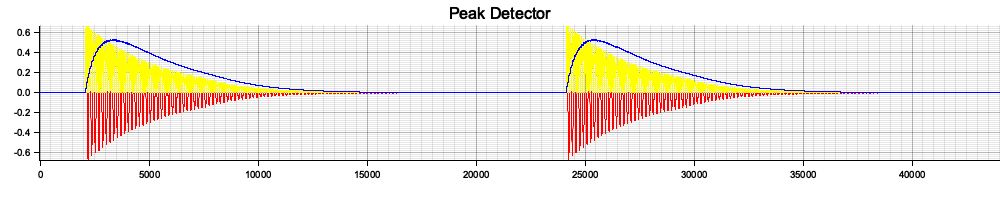
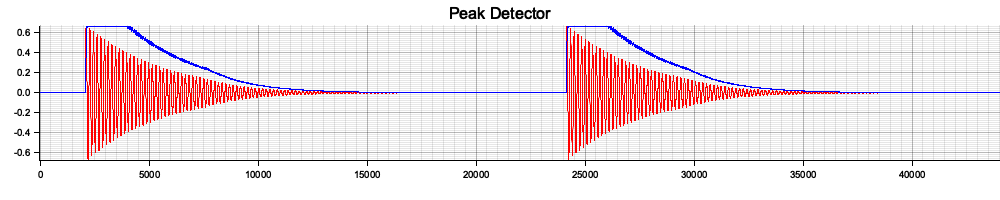
Fix and simplify compressor implementation

Changed region(s): [[0.062, 0.12, 0.372, 0.48], [0.558, 0.12, 0.837, 0.48]]

diff --git a/crates/augmented/audio/audio-processor-dynamics/src/lib.rs b/crates/augmented/audio/audio-processor-dynamics/src/lib.rs
@@ -1,75 +1,97 @@
 use audio_garbage_collector::{make_shared, Shared};
 use audio_processor_traits::{AudioBuffer, AudioProcessor, AudioProcessorSettings};
-use augmented_audio_volume::{Amplitude, Decibels};
+use augmented_audio_volume::{db_to_amplitude, Amplitude, Decibels};
 use handle::CompressorHandle;
+
+type FloatT = augmented_audio_volume::Float;
 
 mod handle {
     use audio_processor_traits::AtomicF32;
 
-    pub fn calculate_multiplier(sample_rate: f32, duration_ms: f32) -> f32 {
+    use super::FloatT;
+
+    type AtomicFloat = AtomicF32;
+
+    pub fn calculate_multiplier(sample_rate: FloatT, duration_ms: FloatT) -> FloatT {
         let attack_secs = duration_ms * 0.001;
         let attack_samples = sample_rate * attack_secs;
-        (-1.0 / attack_samples).exp2()
+        FloatT::exp2((-1.0 / attack_samples))
     }
 
     pub struct CompressorHandle {
-        make_up_gain_db: AtomicF32,
-        knee_width_db: AtomicF32,
-        threshold_db: AtomicF32,
-        ratio: AtomicF32,
-        attack_ms: AtomicF32,
-        release_ms: AtomicF32,
-        sample_rate: AtomicF32,
+        make_up_gain_db: AtomicFloat,
+        knee_width_db: AtomicFloat,
+        threshold_db: AtomicFloat,
+        ratio: AtomicFloat,
+        attack_ms: AtomicFloat,
+        release_ms: AtomicFloat,
+        sample_rate: AtomicFloat,
     }
 
     impl Default for CompressorHandle {
         fn default() -> Self {
             Self {
-                make_up_gain_db: AtomicF32::new(0.0),
-                knee_width_db: AtomicF32::new(1.0),
-                threshold_db: AtomicF32::new(-10.0),
-                ratio: AtomicF32::new(2.0),
-                attack_ms: AtomicF32::new(3.0),
-                release_ms: AtomicF32::new(10.0),
-                sample_rate: AtomicF32::new(44100.0),
+                make_up_gain_db: AtomicFloat::new(0.0),
+                knee_width_db: AtomicFloat::new(0.1),
+                threshold_db: AtomicFloat::new(-10.0),
+                ratio: AtomicFloat::new(2.0),
+                attack_ms: AtomicFloat::new(3.0),
+                release_ms: AtomicFloat::new(10.0),
+                sample_rate: AtomicFloat::new(44100.0),
             }
         }
     }
 
     impl CompressorHandle {
-        pub fn attack_mult(&self) -> f32 {
+        pub fn attack_mult(&self) -> FloatT {
             calculate_multiplier(self.sample_rate.get(), self.attack_ms.get())
         }
 
-        pub fn release_mult(&self) -> f32 {
+        pub fn release_mult(&self) -> FloatT {
             calculate_multiplier(self.sample_rate.get(), self.release_ms.get())
         }
 
-        pub fn set_attack_ms(&self, value: f32) {
+        pub fn set_attack_ms(&self, value: FloatT) {
             self.attack_ms.set(value);
         }
 
-        pub fn set_release_ms(&self, value: f32) {
+        pub fn set_make_up_gain(&self, value: FloatT) {
+            self.make_up_gain_db.set(value);
+        }
+
+        pub fn set_release_ms(&self, value: FloatT) {
             self.release_ms.set(value);
         }
 
-        pub fn set_sample_rate(&self, sample_rate: f32) {
+        pub fn set_sample_rate(&self, sample_rate: FloatT) {
             self.sample_rate.set(sample_rate);
         }
 
-        pub fn set_threshold(&self, threshold: f32) {
+        pub fn set_threshold(&self, threshold: FloatT) {
             self.threshold_db.set(threshold)
         }
 
-        pub fn ratio(&self) -> f32 {
+        pub fn set_knee_width(&self, width: FloatT) {
+            self.knee_width_db.set(width)
+        }
+
+        pub fn set_ratio(&self, ratio: FloatT) {
+            self.ratio.set(ratio)
+        }
+
+        pub fn ratio(&self) -> FloatT {
             self.ratio.get()
         }
 
-        pub fn threshold(&self) -> f32 {
+        pub fn make_up_gain(&self) -> FloatT {
+            self.make_up_gain_db.get()
+        }
+
+        pub fn threshold(&self) -> FloatT {
             self.threshold_db.get()
         }
 
-        pub fn knee_width(&self) -> f32 {
+        pub fn knee_width(&self) -> FloatT {
             self.knee_width_db.get()
         }
     }
@@ -77,6 +99,8 @@ mod handle {
 
 pub struct CompressorProcessor {
     peak_detector_state: PeakDetector,
+    gain_db: FloatT,
+    gain: FloatT,
     handle: Shared<CompressorHandle>,
 }
 
@@ -84,13 +108,19 @@ impl CompressorProcessor {
     pub fn new() -> Self {
         Self {
             peak_detector_state: PeakDetector::default(),
+            gain_db: 0.0,
+            gain: 1.0,
             handle: make_shared(CompressorHandle::default()),
         }
+    }
+
+    pub fn handle(&self) -> &Shared<CompressorHandle> {
+        &self.handle
     }
 }
 
 impl AudioProcessor for CompressorProcessor {
-    type SampleType = f32;
+    type SampleType = FloatT;
 
     fn prepare(&mut self, settings: AudioProcessorSettings) {
         self.handle.set_sample_rate(settings.sample_rate());
@@ -113,54 +143,53 @@ impl AudioProcessor for CompressorProcessor {
 }
 
 impl CompressorProcessor {
-    fn apply_gain(&self, frame: &mut [f32]) {
+    fn apply_gain(&mut self, frame: &mut [FloatT]) {
         let gain = self.compute_gain();
         for sample in frame {
             *sample = *sample * gain;
         }
     }
 
-    fn compute_gain(&self) -> f32 {
-        let power = self.peak_detector_state.power;
+    fn compute_gain(&self) -> FloatT {
         let level = self.peak_detector_state.value;
         let ratio = self.handle.ratio();
-        let threshold = Amplitude::from_db(self.handle.threshold(), 1.0).as_amplitude();
-        let width = Amplitude::from_db(self.handle.knee_width(), 1.0).as_amplitude();
+        let make_up_gain = db_to_amplitude(self.handle.make_up_gain(), 1.0);
+        let threshold = db_to_amplitude(self.handle.threshold(), 1.0);
+        let width = db_to_amplitude(self.handle.knee_width(), 1.0);
 
         let delta = level - threshold;
         let output = if (2.0 * delta) < -width {
-            power
+            1.0
         } else if (2.0 * delta.abs()) <= width {
-            power + (1.0 / ratio - 1.0) * (delta + width / 2.0).powf(2.0) / 2.0 * width
+            1.0 + (1.0 / ratio - 1.0) * (delta + width / 2.0).powf(2.0) / 2.0 * width
         } else {
-            threshold + (power - threshold) / ratio
+            1.0 + delta * (1.0 / ratio - 1.0)
         };
 
-        (output / power).max(0.0)
+        make_up_gain + output
     }
 }
 
 struct PeakDetector {
-    value: f32,
-    power: f32,
+    value: FloatT,
 }
 
 impl Default for PeakDetector {
     fn default() -> Self {
-        Self {
-            value: 0.0.into(),
-            power: 0.0.into(),
-        }
+        Self { value: 0.0.into() }
     }
 }
 
 impl PeakDetector {
-    fn accept_frame(&mut self, attack_mult: f32, release_mult: f32, frame: &[f32]) {
-        let frame_len = frame.len() as f32;
-        let new: f32 = frame.into_iter().map(|f| f.abs()).sum::<f32>() / frame_len;
-        let old: f32 = self.value;
-        self.power = new;
-        self.value = release_mult * old + (1.0 - attack_mult) * (new - old).max(0.0);
+    fn accept_frame(&mut self, attack_mult: FloatT, release_mult: FloatT, frame: &[FloatT]) {
+        let frame_len = frame.len() as FloatT;
+        let new: FloatT = frame.into_iter().map(|f| FloatT::abs(*f)).sum::<FloatT>() / frame_len;
+        let curr_slope = if self.value > new {
+            release_mult
+        } else {
+            attack_mult
+        };
+        self.value = (self.value * curr_slope) + ((1.0 - curr_slope) * new);
     }
 }
 
@@ -172,7 +201,10 @@ mod test {
     use audio_processor_testing_helpers::relative_path;
 
     use audio_processor_file::AudioFileProcessor;
-    use audio_processor_traits::{audio_buffer, OwnedAudioBuffer, VecAudioBuffer};
+    use audio_processor_traits::{
+        audio_buffer, Float, InterleavedAudioBuffer, OwnedAudioBuffer, VecAudioBuffer,
+    };
+    use augmented_audio_volume::amplitude_to_db;
 
     use super::*;
 
@@ -189,17 +221,23 @@ mod test {
     }
 
     #[test]
+    fn test_knee_widths() {
+        let amp = db_to_amplitude(0.1, 1.0);
+        assert!(amp > 0.0);
+        assert!(amp < 2.0);
+    }
+
+    #[test]
     fn test_peak_detector_output() {
         let output_path = relative_path!("src/peak-detector");
         let settings = AudioProcessorSettings::default();
         let mut input = setup_input_processor(settings);
         let mut processor = PeakDetector::default();
-        let attack_multi = handle::calculate_multiplier(settings.sample_rate(), 10.0);
-        let release_mult = handle::calculate_multiplier(settings.sample_rate(), 30.0);
+        let attack_multi = handle::calculate_multiplier(settings.sample_rate(), 1.0);
+        let release_mult = handle::calculate_multiplier(settings.sample_rate(), 5.0);
 
         let mut input_vec = vec![];
         let mut output_vec = vec![];
-        let mut power_vec = vec![];
         {
             let mut buffer = VecAudioBuffer::new();
             buffer.resize(2, settings.block_size(), 0.0);
@@ -211,7 +249,6 @@ mod test {
                     input_vec.push(average(frame));
                     processor.accept_frame(attack_multi, release_mult, frame);
                     output_vec.push(processor.value * 2.0);
-                    power_vec.push(processor.power);
                 }
             }
         }
@@ -219,7 +256,7 @@ mod test {
         draw_multi_vec_charts(
             &output_path,
             "Peak Detector",
-            vec![(RED, input_vec), (YELLOW, power_vec), (BLUE, output_vec)],
+            vec![(RED, input_vec), (BLUE, output_vec)],
         );
     }
 
@@ -230,11 +267,19 @@ mod test {
         let mut input = setup_input_processor(settings);
         let mut processor = CompressorProcessor::new();
         processor.prepare(settings);
-        processor.handle.set_threshold(-20.0);
-        processor.handle.set_attack_ms(2.0);
+        processor.handle.set_ratio(30.0);
+        processor.handle.set_threshold(-10.0);
+        processor.handle.set_attack_ms(1.0);
+        processor.handle.set_release_ms(5.0);
+        processor.handle.set_knee_width(-1.0);
+        processor
+            .handle
+            .set_make_up_gain(amplitude_to_db(0.25, 1.0));
 
         let mut input_vec = vec![];
         let mut output_vec = vec![];
+        let mut gain_vec = vec![];
+
         {
             let mut buffer = VecAudioBuffer::new();
             buffer.resize(1, settings.block_size(), 0.0);
@@ -246,20 +291,25 @@ mod test {
                     input_vec.push(average(frame))
                 }
 
-                processor.process(&mut buffer);
-                for frame in buffer.frames() {
-                    output_vec.push(average(frame))
+                for sample in buffer.slice_mut() {
+                    let mut buf = [*sample];
+                    let mut one_sample = InterleavedAudioBuffer::new(1, &mut buf);
+                    processor.process(&mut one_sample);
+                    *sample = buf[0];
+                    output_vec.push(*sample);
+                    gain_vec.push(processor.compute_gain());
                 }
             }
         }
 
         draw_vec_chart(&output_path, "Input", input_vec);
+        draw_vec_chart(&output_path, "Gain", gain_vec);
         draw_vec_chart(&output_path, "Output", output_vec);
     }
 
-    fn average(frame: &[f32]) -> f32 {
-        let num_samples = frame.len() as f32;
-        frame.into_iter().map(|f| *f).sum::<f32>() / num_samples
+    fn average(frame: &[FloatT]) -> FloatT {
+        let num_samples = frame.len() as FloatT;
+        frame.into_iter().map(|f| *f).sum::<FloatT>() / num_samples
     }
 
     fn setup_input_processor(settings: AudioProcessorSettings) -> AudioFileProcessor {

diff --git a/crates/augmented/data/audio-volume/src/lib.rs b/crates/augmented/data/audio-volume/src/lib.rs
@@ -7,8 +7,10 @@
 use std::ops::Mul;
 
 #[cfg(not(feature = "f64"))]
+#[cfg(feature = "f32")]
 pub type Float = f32;
 #[cfg(feature = "f64")]
+#[cfg(not(feature = "f32"))]
 pub type Float = f64;
 
 /// Represents a reference-less dB value.
@@ -157,8 +159,9 @@ pub fn amplitude_to_db(volume: Float, reference_amplitude: Float) -> Float {
 
 #[cfg(test)]
 mod tests {
-    use super::*;
     use audio_processor_testing_helpers::assert_f_eq;
+
+    use super::*;
 
     #[test]
     fn it_can_be_created() {

diff --git a/crates/augmented/audio/audio-processor-dynamics/examples/compressor.rs b/crates/augmented/audio/audio-processor-dynamics/examples/compressor.rs
@@ -1,0 +1,14 @@
+use audio_processor_dynamics::CompressorProcessor;
+use audio_processor_standalone::audio_processor_main;
+use augmented_audio_volume::amplitude_to_db;
+
+fn main() {
+    let processor = CompressorProcessor::new();
+    processor.handle().set_threshold(-30.0);
+    processor.handle().set_ratio(10.0);
+    processor.handle().set_attack_ms(1.0);
+    processor
+        .handle()
+        .set_make_up_gain(amplitude_to_db(0.25, 1.0));
+    audio_processor_main(processor);
+}
